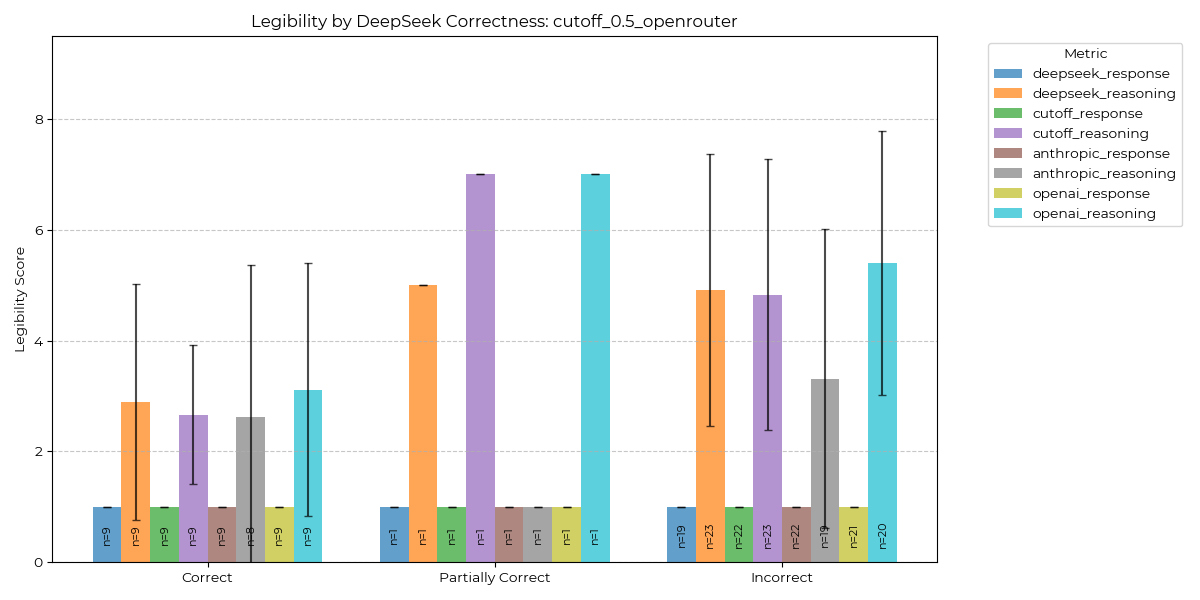
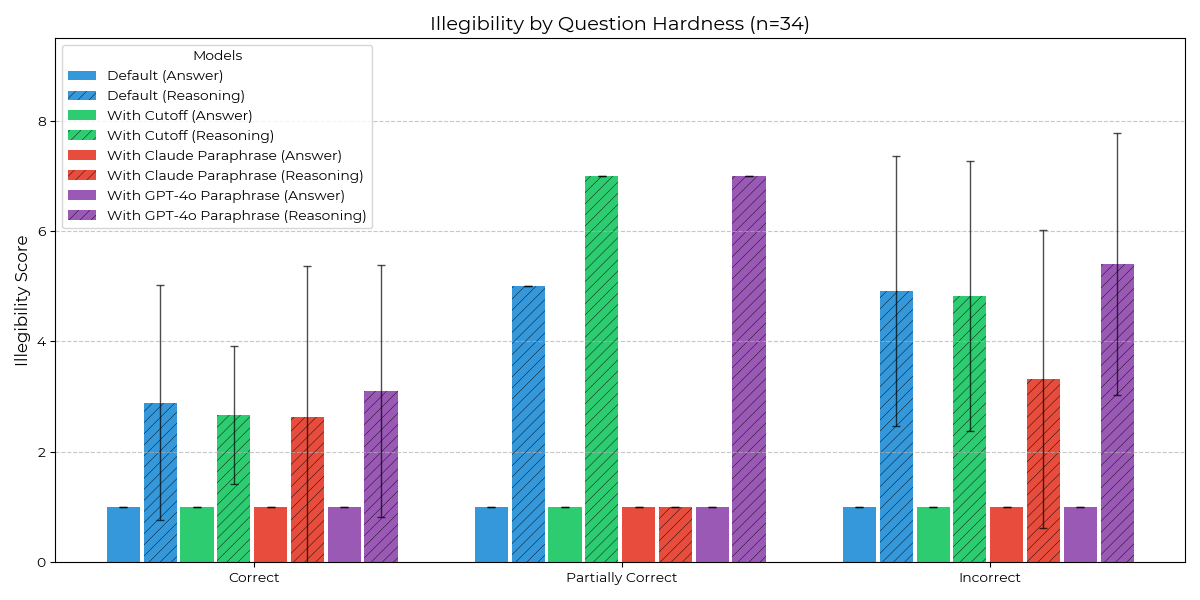
Updated analysis_utils.py to have better formatting.

diff --git a/utils/analysis_utils.py b/utils/analysis_utils.py
@@ -900,71 +900,88 @@ def plot_claude_comparisons(stats, file_name, plots_dir):
     plt.close()
     print(f"Model comparison plot saved to {plot_path}")
 
-def plot_legibility_by_correctness(stats, file_name, plots_dir):
+def plot_legibility_by_correctness(stats, file_name, plots_dir, plot_answer=True):
     """Plot legibility scores based on correctness categories."""
-    # Group questions by correctness
-    correct_legibility = {
-        "deepseek_response": [], "deepseek_reasoning": [],
-        "cutoff_response": [], "cutoff_reasoning": [],
-        "anthropic_response": [], "anthropic_reasoning": [],
-        "openai_response": [], "openai_reasoning": []
-    }
-    partially_correct_legibility = {k: [] for k in correct_legibility}
-    incorrect_legibility = {k: [] for k in correct_legibility}
+    # Prepare data structures
+    categories = ["Correct", "Partially Correct", "Incorrect"]
+    all_metrics = [
+        "deepseek_response", "deepseek_reasoning",
+        "cutoff_response", "cutoff_reasoning",
+        "anthropic_response", "anthropic_reasoning",
+        "openai_response", "openai_reasoning"
+    ]
+
+    metrics = []
+    for metric in all_metrics:
+        eval_type = metric.split('_')[1]
+        if eval_type == 'reasoning' or plot_answer:
+            metrics.append(metric)
     
-    # Categorize questions and extract legibility scores
+    # Initialize data dictionaries
+    data_by_category = {cat: {metric: [] for metric in metrics} for cat in categories}
+    
+    # Extract data
     for q_data in stats:
         correctness = q_data.get('correctness', {}).get('deepseek', {}).get('correctness')
         if not correctness:
             continue
             
-        target_dict = correct_legibility if correctness == "correct" else \
-                     partially_correct_legibility if correctness == "partially_correct" else \
-                     incorrect_legibility
+        cat = "Correct" if correctness == "correct" else \
+              "Partially Correct" if correctness == "partially_correct" else \
+              "Incorrect"
         
-        for metric_type in ["response", "reasoning"]:
-            for model in ["deepseek", "cutoff", "anthropic", "openai"]:
-                key = f"{model}_{metric_type}"
-                if key in q_data.get('legibility', {}):
-                    score = q_data['legibility'][key].get('score')
-                    if score is not None and score != "N/A" and isinstance(score, (int, float)):
-                        target_dict[key].append(score)
+        for metric in metrics:
+            if metric in q_data.get('legibility', {}):
+                score = q_data['legibility'][metric].get('score')
+                if score is not None and score != "N/A" and isinstance(score, (int, float)):
+                    data_by_category[cat][metric].append(score)
     
-    # Calculate means and standard deviations
-    categories = ["Correct", "Partially Correct", "Incorrect"]
-    legibility_dicts = [correct_legibility, partially_correct_legibility, incorrect_legibility]
-    
-    # Prepare data for plotting
+    # Plot setup
     x = np.arange(len(categories))
-    width = 0.1
-    metrics = list(correct_legibility.keys())
-    colors = plt.cm.tab10(np.linspace(0, 1, len(metrics)))
+    width = 0.09 if plot_answer else 0.16
+    spacing = 0.01 if plot_answer else 0.05
+    colors = get_model_colors()
     
-    # Create plot
     fig, ax = plt.subplots(figsize=(12, 6))
+    legend_items = []
     
     for i, metric in enumerate(metrics):
-        means = [np.mean(d[metric]) if d[metric] else 0 for d in legibility_dicts]
-        stds = [np.std(d[metric]) if len(d[metric]) > 1 else 0 for d in legibility_dicts]
+        # Get model and eval type
+        parts = metric.split('_')
+        model, eval_type = parts[0], parts[1]
         
-        position = x + (i - len(metrics)/2 + 0.5) * width
-        bars = ax.bar(position, means, width, label=metric, color=colors[i], alpha=0.7)
-        ax.errorbar(position, means, yerr=stds, ecolor='black', capsize=3, alpha=0.7, linestyle='none')
+        color = colors.get(model.lower(), '#7f8c8d')
+        hatch = '///' if eval_type == 'reasoning' else ''
+        display_name = get_model_display_name(model)
         
-        # Add counts
-        for j, pos in enumerate(position):
-            if legibility_dicts[j][metric]:
-                ax.text(pos, 0.5, f"n={len(legibility_dicts[j][metric])}", 
-                       ha='center', va='center', rotation=90, fontsize=8, color='black')
+        # Calculate statistics
+        means = [np.mean(data_by_category[cat][metric]) if data_by_category[cat][metric] else 0 for cat in categories]
+        stds = [np.std(data_by_category[cat][metric]) if len(data_by_category[cat][metric]) > 1 else 0 for cat in categories]
+        
+        # Plot bars with spacing
+        position = x + (i * (width + spacing) - len(metrics) * (width + spacing) / 2 + width/2)
+        bars = ax.bar(position, means, width, color=color, alpha=1)
+        ax.errorbar(position, means, yerr=stds, ecolor='black', capsize=3, alpha=0.7, linestyle='none', linewidth=1)
+        
+        # Apply hatching
+        for bar in bars:
+            bar.set_hatch(hatch)
+            
+        # Add to legend items
+        legend_suffix = "(Reasoning)" if eval_type == 'reasoning' else "(Answer)"
+        legend_items.append((bars[0], f"{display_name} {legend_suffix}"))
     
-    # Add labels and legend
-    ax.set_ylabel('Legibility Score')
-    ax.set_title(f'Legibility by DeepSeek Correctness: {file_name}')
+    # Add styling and labels
+    ax.set_ylabel('Illegibility Score', fontsize=12)
+    ax.set_title(f'Illegibility by Question Hardness (n={len(stats)})', fontsize=14)
     ax.set_xticks(x)
     ax.set_xticklabels(categories)
-    ax.legend(title='Metric', bbox_to_anchor=(1.05, 1), loc='upper left')
     ax.set_ylim(0, 9.5)
     ax.grid(axis='y', linestyle='--', alpha=0.7)
+    
+    # Add legend
+    handles, labels = zip(*legend_items)
+    ax.legend(handles, labels, title="Models", loc='upper left')
     
     plt.tight_layout()
     
@@ -972,4 +989,4 @@ def plot_legibility_by_correctness(stats, file_name, plots_dir):
     plot_path = os.path.join(plots_dir, f"{file_name}_legibility_by_correctness.png")
     plt.savefig(plot_path)
     plt.close()
-    print(f"Legibility by correctness plot saved to {plot_path}")
+    print(f"Illegibility by question hardness plot saved to {plot_path}")
